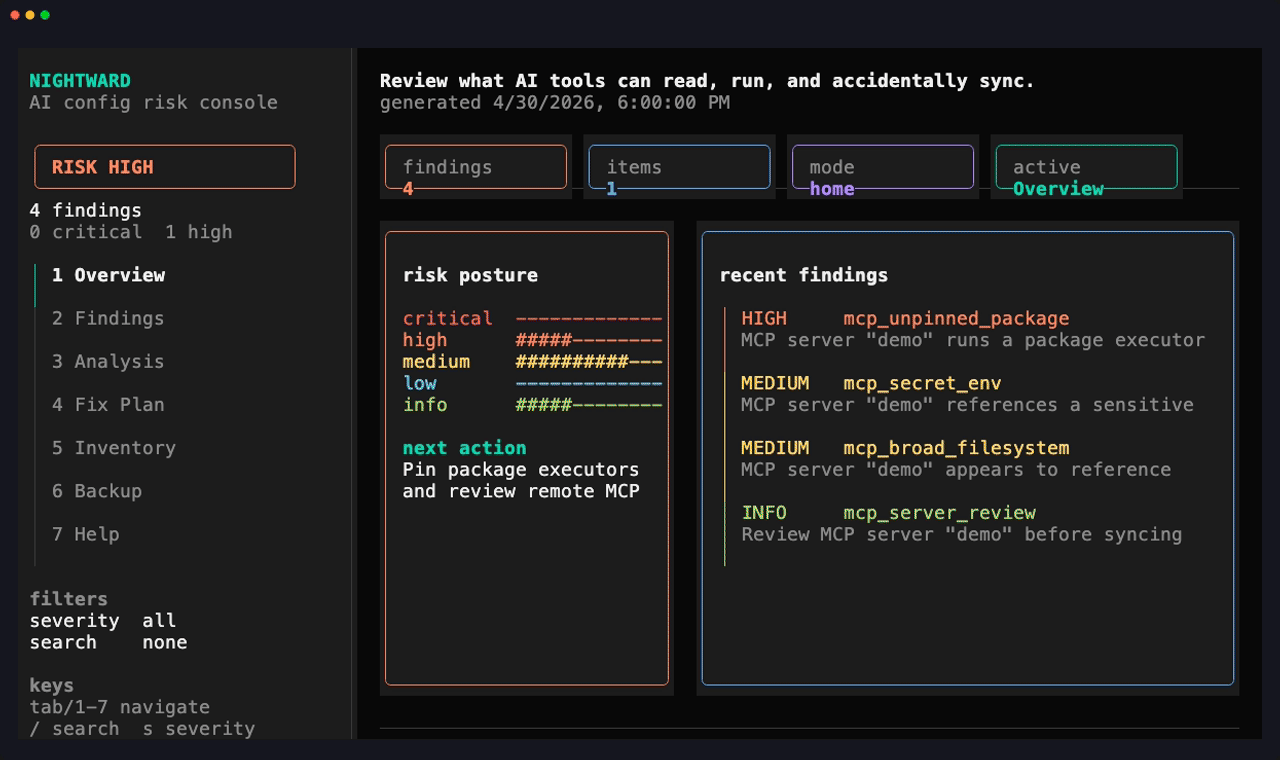
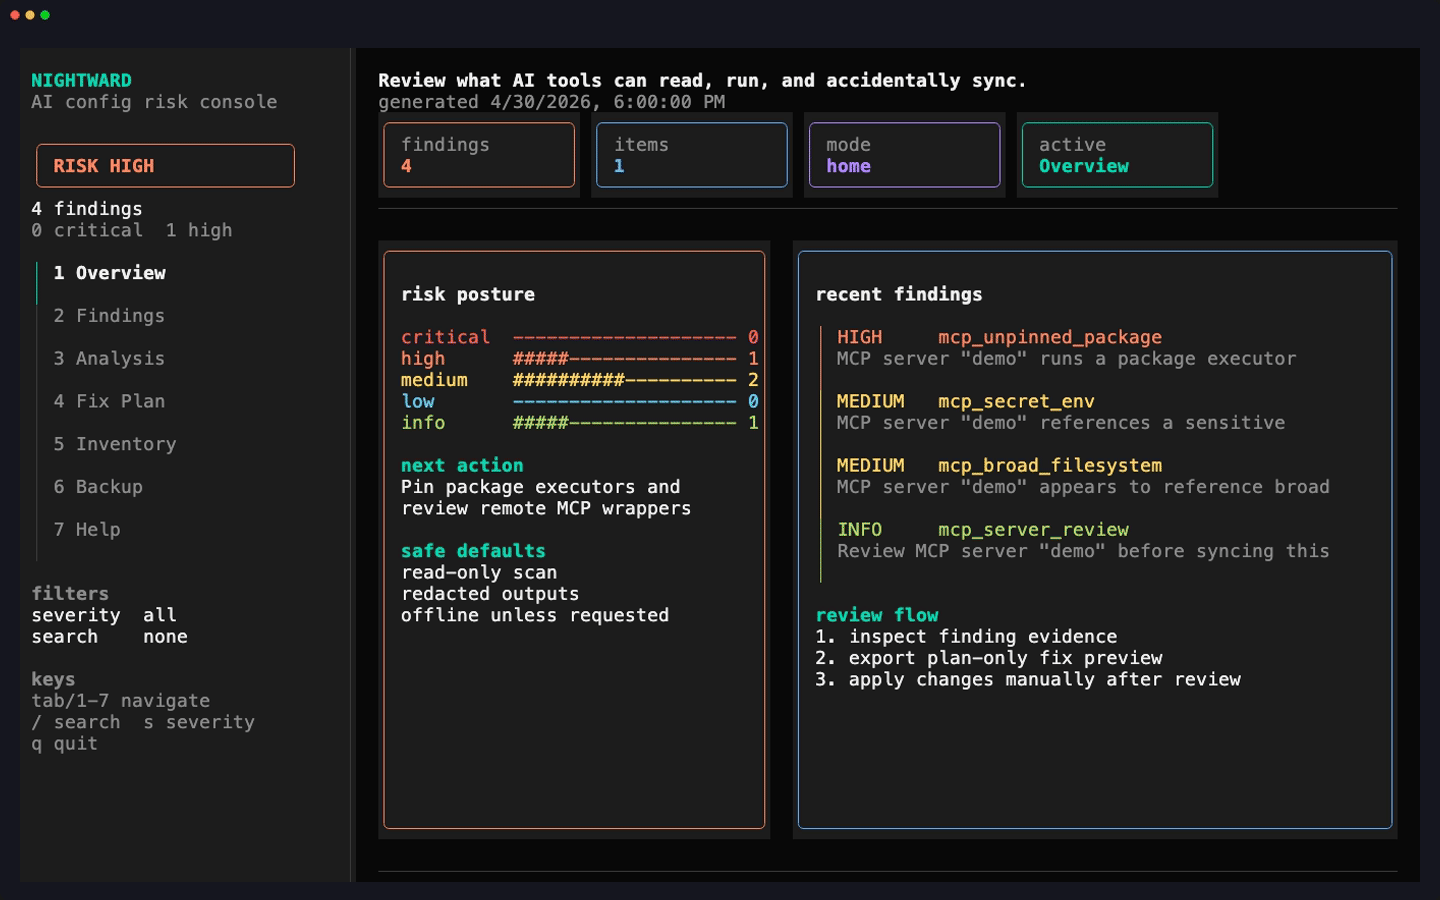
fix(tui): polish OpenTUI media and Raycast status menu

diff --git a/packages/tui/src/main.ts b/packages/tui/src/main.ts
@@ -243,17 +243,18 @@ function mainPanel(bundle: NightwardBundle, state: TuiState, width: number, heig
       paddingY: 1,
       backgroundColor: colors.bg
     },
-    header(bundle.scan, state),
-    content(bundle, state, width, Math.max(10, height - 8)),
+    header(bundle.scan, state, width),
+    content(bundle, state, width, Math.max(10, height - 9)),
     footer(state)
   );
 }
 
-function header(report: NightwardReport, state: TuiState) {
+function header(report: NightwardReport, state: TuiState, width: number) {
   const generated = report.generated_at ? new Date(report.generated_at).toLocaleString() : "unknown";
+  const cardWidth = Math.max(13, Math.min(18, Math.floor((width - 8) / 4)));
   return Box(
     {
-      height: 6,
+      height: 7,
       flexDirection: "column",
       border: ["bottom"],
       borderColor: colors.line
@@ -261,11 +262,11 @@ function header(report: NightwardReport, state: TuiState) {
     Text({ height: 1, content: "Review what AI tools can read, run, and accidentally sync.", fg: colors.text, attributes: 1 }),
     Text({ height: 1, content: `generated ${generated}`, fg: colors.muted }),
     Box(
-      { height: 3, flexDirection: "row", columnGap: 1, paddingY: 1 },
-      statCard("findings", String(totalFindings(report)), colorForSeverity(highestSeverity(report))),
-      statCard("items", String(report.summary?.total_items ?? report.items?.length ?? 0), colors.blue),
-      statCard("mode", report.scan_mode || (report.workspace ? "workspace" : "home"), colors.purple),
-      statCard("active", tabs[state.tab], colors.cyan)
+      { height: 4, flexDirection: "row", columnGap: 1, paddingY: 0 },
+      statCard("findings", String(totalFindings(report)), colorForSeverity(highestSeverity(report)), cardWidth),
+      statCard("items", String(report.summary?.total_items ?? report.items?.length ?? 0), colors.blue, cardWidth),
+      statCard("mode", report.scan_mode || (report.workspace ? "workspace" : "home"), colors.purple, cardWidth),
+      statCard("active", tabs[state.tab], colors.cyan, cardWidth)
     )
   );
 }
@@ -292,6 +293,7 @@ function content(bundle: NightwardBundle, state: TuiState, width: number, height
 
 function overviewView(report: NightwardReport, height: number) {
   const counts = severityCounts(report);
+  const visibleFindings = Math.max(3, Math.min(5, Math.floor((height - 10) / 3)));
   return Box(
     { height, flexDirection: "row", columnGap: 2, paddingY: 1 },
     Box(
@@ -301,13 +303,23 @@ function overviewView(report: NightwardReport, height: number) {
       ...severityOrder.map((severity) => Text({ height: 1, content: `${severity.padEnd(9)} ${bar(counts[severity], Math.max(1, totalFindings(report)), 20)} ${counts[severity]}`, fg: colorForSeverity(severity) })),
       spacer(),
       Text({ height: 1, content: "next action", fg: colors.cyan, attributes: 1 }),
-      Text({ height: 2, content: nextAction(report), fg: colors.text, wrapMode: "word" })
+      Text({ height: 2, content: nextAction(report), fg: colors.text, wrapMode: "word" }),
+      spacer(),
+      Text({ height: 1, content: "safe defaults", fg: colors.cyan, attributes: 1 }),
+      Text({ height: 1, content: "read-only scan", fg: colors.text }),
+      Text({ height: 1, content: "redacted outputs", fg: colors.text }),
+      Text({ height: 1, content: "offline unless requested", fg: colors.text })
     ),
     Box(
       { flexGrow: 1, height: "100%", flexDirection: "column", border: true, borderStyle: "rounded", borderColor: colors.blue, padding: 1, backgroundColor: colors.panel2 },
       Text({ height: 1, content: "recent findings", fg: colors.text, attributes: 1 }),
       spacer(),
-      ...filteredFindings(report, { severity: "", search: "" }).slice(0, 9).map((finding) => findingRow(finding, false, 64))
+      ...filteredFindings(report, { severity: "", search: "" }).slice(0, visibleFindings).map((finding) => findingRow(finding, false, 64)),
+      spacer(),
+      Text({ height: 1, content: "review flow", fg: colors.cyan, attributes: 1 }),
+      Text({ height: 1, content: "1. inspect finding evidence", fg: colors.text }),
+      Text({ height: 1, content: "2. export plan-only fix preview", fg: colors.text }),
+      Text({ height: 1, content: "3. apply changes manually after review", fg: colors.text })
     )
   );
 }
@@ -315,6 +327,7 @@ function overviewView(report: NightwardReport, height: number) {
 function findingsView(report: NightwardReport, state: TuiState, _width: number, height: number) {
   const findings = filteredFindings(report, state);
   const selected = selectedFinding(report, state);
+  const visibleFindings = Math.max(3, Math.min(10, Math.floor((height - 5) / 3)));
   return Box(
     { height, flexDirection: "row", columnGap: 2, paddingY: 1 },
     Box(
@@ -322,7 +335,7 @@ function findingsView(report: NightwardReport, state: TuiState, _width: number, 
       Text({ height: 1, content: `${findings.length} matching findings`, fg: colors.text, attributes: 1 }),
       Text({ height: 1, content: `severity=${state.severity || "all"} search=${state.search || "none"}`, fg: colors.muted }),
       spacer(),
-      ...findings.slice(0, 12).map((finding, index) => findingRow(finding, index === state.cursor, 72))
+      ...findings.slice(0, visibleFindings).map((finding, index) => findingRow(finding, index === state.cursor, 72))
     ),
     detailPanel(selected)
   );
@@ -343,6 +356,7 @@ function analysisView(bundle: NightwardBundle, state: TuiState, height: number) 
       .includes(query);
   });
   const selected = signals[Math.min(state.cursor, Math.max(0, signals.length - 1))];
+  const visibleSignals = Math.max(3, Math.min(10, Math.floor((height - 5) / 3)));
   return Box(
     { height, flexDirection: "row", columnGap: 2, paddingY: 1 },
     Box(
@@ -350,7 +364,7 @@ function analysisView(bundle: NightwardBundle, state: TuiState, height: number) 
       Text({ height: 1, content: `${signals.length} normalized signals`, fg: colors.text, attributes: 1 }),
       Text({ height: 1, content: `${bundle.analysis?.summary?.provider_warnings || 0} provider warnings`, fg: colors.muted }),
       spacer(),
-      ...signals.slice(0, 12).map((signal, index) => signalRow(signal, index === state.cursor))
+      ...signals.slice(0, visibleSignals).map((signal, index) => signalRow(signal, index === state.cursor))
     ),
     signalDetailPanel(selected)
   );
@@ -371,6 +385,7 @@ function fixPlanView(bundle: NightwardBundle, state: TuiState, _width: number, h
       .includes(query);
   });
   const selected = filtered[Math.min(state.cursor, Math.max(0, filtered.length - 1))];
+  const visibleFixes = Math.max(3, Math.min(10, Math.floor((height - 5) / 3)));
   return Box(
     { height, flexDirection: "row", columnGap: 2, paddingY: 1 },
     Box(
@@ -378,7 +393,7 @@ function fixPlanView(bundle: NightwardBundle, state: TuiState, _width: number, h
       Text({ height: 1, content: "plan-only remediation", fg: colors.text, attributes: 1 }),
       Text({ height: 1, content: "No config is mutated from this interface.", fg: colors.muted }),
       spacer(),
-      ...filtered.slice(0, 12).map((fix, index) => fixRow(fix, index === state.cursor))
+      ...filtered.slice(0, visibleFixes).map((fix, index) => fixRow(fix, index === state.cursor))
     ),
     fixDetailPanel(selected)
   );
@@ -387,13 +402,14 @@ function fixPlanView(bundle: NightwardBundle, state: TuiState, _width: number, h
 function inventoryView(report: NightwardReport, state: TuiState, _width: number, height: number) {
   const items = report.items || [];
   const selected = items[Math.min(state.cursor, Math.max(0, items.length - 1))];
+  const visibleItems = Math.max(4, Math.min(12, Math.floor((height - 4) / 2)));
   return Box(
     { height, flexDirection: "row", columnGap: 2, paddingY: 1 },
     Box(
       { width: "55%", height: "100%", flexDirection: "column", border: true, borderStyle: "rounded", borderColor: colors.blue, padding: 1, backgroundColor: colors.panel },
       Text({ height: 1, content: `${items.length} discovered config paths`, fg: colors.text, attributes: 1 }),
       spacer(),
-      ...items.slice(0, 14).map((item, index) => inventoryRow(item, index === state.cursor))
+      ...items.slice(0, visibleItems).map((item, index) => inventoryRow(item, index === state.cursor))
     ),
     Box(
       { flexGrow: 1, height: "100%", flexDirection: "column", border: true, borderStyle: "rounded", borderColor: colors.line, padding: 1, backgroundColor: colors.panel2 },
@@ -411,6 +427,7 @@ function backupView(bundle: NightwardBundle, state: TuiState, height: number) {
   const entries = bundle.backup_plan?.entries?.length ? bundle.backup_plan.entries : fallbackBackupEntries(bundle.scan);
   const selected = entries[Math.min(state.cursor, Math.max(0, entries.length - 1))];
   const summary = bundle.backup_plan?.summary || backupSummary(entries);
+  const visibleEntries = Math.max(3, Math.min(10, Math.floor((height - 5) / 3)));
   return Box(
     { height, flexDirection: "row", columnGap: 2, paddingY: 1 },
     Box(
@@ -418,7 +435,7 @@ function backupView(bundle: NightwardBundle, state: TuiState, height: number) {
       Text({ height: 1, content: "backup preview", fg: colors.text, attributes: 1 }),
       Text({ height: 1, content: `${summary?.included || 0} include  ${summary?.review || 0} review  ${summary?.excluded || 0} exclude`, fg: colors.muted }),
       spacer(),
-      ...entries.slice(0, 13).map((entry, index) => backupRow(entry, index === state.cursor))
+      ...entries.slice(0, visibleEntries).map((entry, index) => backupRow(entry, index === state.cursor))
     ),
     backupDetailPanel(selected, bundle.backup_plan?.target_root)
   );
@@ -428,7 +445,7 @@ function helpView(height: number) {
   return Box(
     { height, flexDirection: "column", paddingY: 1 },
     Box(
-      { width: "100%", height: 12, border: true, borderStyle: "rounded", borderColor: colors.purple, padding: 1, backgroundColor: colors.panel },
+      { width: "100%", height: 14, border: true, borderStyle: "rounded", borderColor: colors.purple, padding: 1, backgroundColor: colors.panel },
       Text({ height: 1, content: "keyboard", fg: colors.text, attributes: 1 }),
       spacer(),
       Text({ height: 1, content: "tab/1-7         switch section", fg: colors.text }),
@@ -533,11 +550,11 @@ function navItem(index: number, label: string, active: boolean) {
   );
 }
 
-function statCard(label: string, value: string, color: string) {
+function statCard(label: string, value: string, color: string, width: number) {
   return Box(
-    { width: 17, height: 3, flexDirection: "column", border: true, borderStyle: "rounded", borderColor: color, paddingX: 1, backgroundColor: colors.panel },
+    { width, height: 4, flexDirection: "column", border: true, borderStyle: "rounded", borderColor: color, paddingX: 1, backgroundColor: colors.panel },
     Text({ height: 1, content: label, fg: colors.muted }),
-    Text({ height: 1, content: truncate(value, 13), fg: color, attributes: 1 })
+    Text({ height: 1, content: truncate(value, Math.max(8, width - 4)), fg: color, attributes: 1 })
   );
 }
 

diff --git a/integrations/raycast/src/status-menu.tsx b/integrations/raycast/src/status-menu.tsx
@@ -7,9 +7,13 @@ import {
   getPreferenceValues,
   launchCommand,
   open,
+  showToast,
   showHUD,
+  Toast,
 } from "@raycast/api";
 import { usePromise } from "@raycast/utils";
+import { execFile } from "node:child_process";
+import { existsSync } from "node:fs";
 import { menuBarStatus, menuBarStatusMarkdown, severityColor } from "./format";
 import {
   analysisReport,
@@ -63,7 +67,12 @@ export default function Command() {
           <MenuBarExtra.Item
             title="Open Reports Folder"
             icon={Icon.Folder}
-            onAction={() => void open(reportsDir(runtime.homeOverride))}
+            onAction={() =>
+              void openLocalPath(
+                reportsDir(runtime.homeOverride),
+                "Reports folder is not available yet",
+              )
+            }
           />
         </MenuBarExtra.Section>
       </MenuBarExtra>
@@ -106,11 +115,7 @@ function StatusItems({
   lastReport?: string;
   onRefresh: () => void;
 }) {
-  const scheduleTitle = status.scheduled ? "Schedule on" : "Schedule off";
-  const scheduleSubtitle =
-    status.lastFindings !== undefined
-      ? `${status.lastFindings} findings in latest scheduled report`
-      : "No scheduled report yet";
+  const scheduleTitle = status.scheduled ? "Enabled" : "Off";
 
   return (
     <>
@@ -142,7 +147,6 @@ function StatusItems({
       <MenuBarExtra.Section title="Analysis">
         <MenuBarExtra.Item
           title={`${status.signals} Signals`}
-          subtitle="Offline analysis"
           icon={Icon.MagnifyingGlass}
         />
         {status.providerWarnings > 0 ? (
@@ -163,12 +167,19 @@ function StatusItems({
       <MenuBarExtra.Section title="Schedule">
         <MenuBarExtra.Item
           title={scheduleTitle}
-          subtitle={scheduleSubtitle}
           icon={{
             source: Icon.Clock,
             tintColor: status.scheduled ? Color.Green : Color.Yellow,
           }}
         />
+        {status.lastFindings !== undefined ? (
+          <MenuBarExtra.Item
+            title={`${status.lastFindings} Findings in Latest Report`}
+            icon={Icon.Document}
+          />
+        ) : (
+          <MenuBarExtra.Item title="No Scheduled Report" icon={Icon.Document} />
+        )}
       </MenuBarExtra.Section>
 
       <MenuBarExtra.Section title="Open">
@@ -190,14 +201,17 @@ function StatusItems({
         <MenuBarExtra.Item
           title="Reports Folder"
           icon={Icon.Folder}
-          onAction={() => void open(reportDir)}
+          onAction={() =>
+            void openLocalPath(reportDir, "Reports folder is not available yet")
+          }
         />
         {lastReport ? (
           <MenuBarExtra.Item
             title="Latest Report"
-            subtitle={shortPath(lastReport)}
             icon={Icon.Document}
-            onAction={() => void open(lastReport)}
+            onAction={() =>
+              void openLocalPath(lastReport, "Latest report is not available")
+            }
           />
         ) : null}
       </MenuBarExtra.Section>
@@ -216,7 +230,7 @@ function StatusItems({
         <MenuBarExtra.Item
           title="Open Nightward Docs"
           icon={Icon.Book}
-          onAction={() => void open(docsUrl)}
+          onAction={() => void openDocs()}
         />
       </MenuBarExtra.Section>
     </>
@@ -224,7 +238,15 @@ function StatusItems({
 }
 
 async function openCommand(name: string) {
-  await launchCommand({ name, type: LaunchType.UserInitiated });
+  try {
+    await launchCommand({ name, type: LaunchType.UserInitiated });
+  } catch (error) {
+    await showToast({
+      style: Toast.Style.Failure,
+      title: `Could not open ${name}`,
+      message: error instanceof Error ? error.message : "Unknown Raycast error",
+    });
+  }
 }
 
 async function copyStatus(status: MenuBarStatus) {
@@ -232,7 +254,35 @@ async function copyStatus(status: MenuBarStatus) {
   await showHUD("Copied Nightward status");
 }
 
-function shortPath(value: string): string {
-  const parts = value.split("/");
-  return parts.slice(-2).join("/");
+async function openDocs() {
+  try {
+    await open(docsUrl);
+  } catch (error) {
+    await showToast({
+      style: Toast.Style.Failure,
+      title: "Could not open Nightward docs",
+      message: error instanceof Error ? error.message : "Unknown Raycast error",
+    });
+  }
+}
+
+async function openLocalPath(path: string, missingTitle: string) {
+  if (!existsSync(path)) {
+    await showToast({
+      style: Toast.Style.Failure,
+      title: missingTitle,
+      message: path,
+    });
+    return;
+  }
+
+  execFile("/usr/bin/open", [path], (error) => {
+    if (error) {
+      void showToast({
+        style: Toast.Style.Failure,
+        title: "Could not open path",
+        message: error.message,
+      });
+    }
+  });
 }

diff --git a/ROADMAP.md b/ROADMAP.md
@@ -26,7 +26,7 @@ Nightward is intentionally staged. The scanner and policy model need to stay tru
 - More MCP config shapes for Codex, Claude Code, and editor integrations.
 - Raycast screenshots, store metadata, and manual development-mode smoke evidence.
 - Golden SARIF snapshots and broader no-write tests.
-- Bubble Tea/Bubbles TUI upgrade with list, table, viewport, textinput, help, filter modal, command palette, report history, and mouse-wheel support.
+- OpenTUI interaction polish with richer list/table behavior, detail panes, command palette, report history, mouse support, and fixture-driven visual regression screenshots.
 - Deeper provider normalization, provider-specific fixtures, and clearer skip/timeout/output-cap reporting across CLI, TUI, Raycast, SARIF, policy, and HTML.
 - Fuzz coverage for MCP JSON/TOML/YAML parsing, URL/header redaction, symlink traversal, huge files, and malformed configs.
 - Add SLSA provenance/attestation after signed checksum and npm provenance flow are stable.

diff --git a/site/index.md b/site/index.md
@@ -59,9 +59,9 @@ The sample report below is generated from the committed `testdata/homes/policy` 
 
 [![Scrubbed Nightward HTML report showing fixture MCP findings](/demo/nightward-sample-report.png)](/demo/nightward-sample-report.html)
 
-[Sample scan JSON](/demo/nightward-sample-scan.json) · [Static HTML report](/demo/nightward-sample-report.html) · [OpenTUI GIF](/demo/nightward-opentui.gif) · [Provider reference](/reference/providers) · [Output surfaces](/reference/output-surfaces)
+[Sample scan JSON](/demo/nightward-sample-scan.json) · [Static HTML report](/demo/nightward-sample-report.html) · [OpenTUI screenshot](/demo/nightward-opentui.png) · [OpenTUI GIF](/demo/nightward-opentui.gif) · [Provider reference](/reference/providers) · [Output surfaces](/reference/output-surfaces)
 
-![Nightward OpenTUI walkthrough](/demo/nightward-opentui.gif)
+![Nightward OpenTUI dashboard](/demo/nightward-opentui.png)
 
 ## What Nightward Checks
 

diff --git a/README.md b/README.md
@@ -34,7 +34,7 @@ The sample below is generated from the committed fixture home at [testdata/homes
 
 - [Scrubbed sample scan JSON](site/public/demo/nightward-sample-scan.json)
 - [Static HTML report](site/public/demo/nightward-sample-report.html)
-- [OpenTUI walkthrough GIF](site/public/demo/nightward-opentui.gif)
+- [OpenTUI screenshot](site/public/demo/nightward-opentui.png) and [walkthrough GIF](site/public/demo/nightward-opentui.gif)
 - Regenerate with `make demo-assets` using Chrome, Chromium, Brave, or `NIGHTWARD_CHROME=/path/to/browser`
 
 ```mermaid
@@ -320,7 +320,7 @@ Keyboard shortcuts:
 
 Fixture-only TUI demo:
 
-![Nightward OpenTUI fixture walkthrough](site/public/demo/nightward-opentui.gif)
+![Nightward OpenTUI fixture dashboard](site/public/demo/nightward-opentui.png)
 
 ## MCP Server
 

diff --git a/site/guide/tui.md b/site/guide/tui.md
@@ -6,7 +6,9 @@ Run Nightward without arguments to open the interactive OpenTUI app:
 nw
 ```
 
-![Nightward OpenTUI fixture walkthrough](/demo/nightward-opentui.gif)
+![Nightward OpenTUI fixture dashboard](/demo/nightward-opentui.png)
+
+[Open the fixture walkthrough GIF](/demo/nightward-opentui.gif)
 
 ## Sections
 

diff --git a/packages/npm/README.md b/packages/npm/README.md
@@ -2,8 +2,8 @@
 
 NPM launcher for Nightward.
 
-Nightward is a local-first TUI/CLI for auditing AI agent state, MCP config, and
-dotfiles backup safety.
+Nightward shows what AI tools can read, run, and accidentally sync before
+configs leave your machine.
 
 ```sh
 npx @jsonbored/nightward --help
